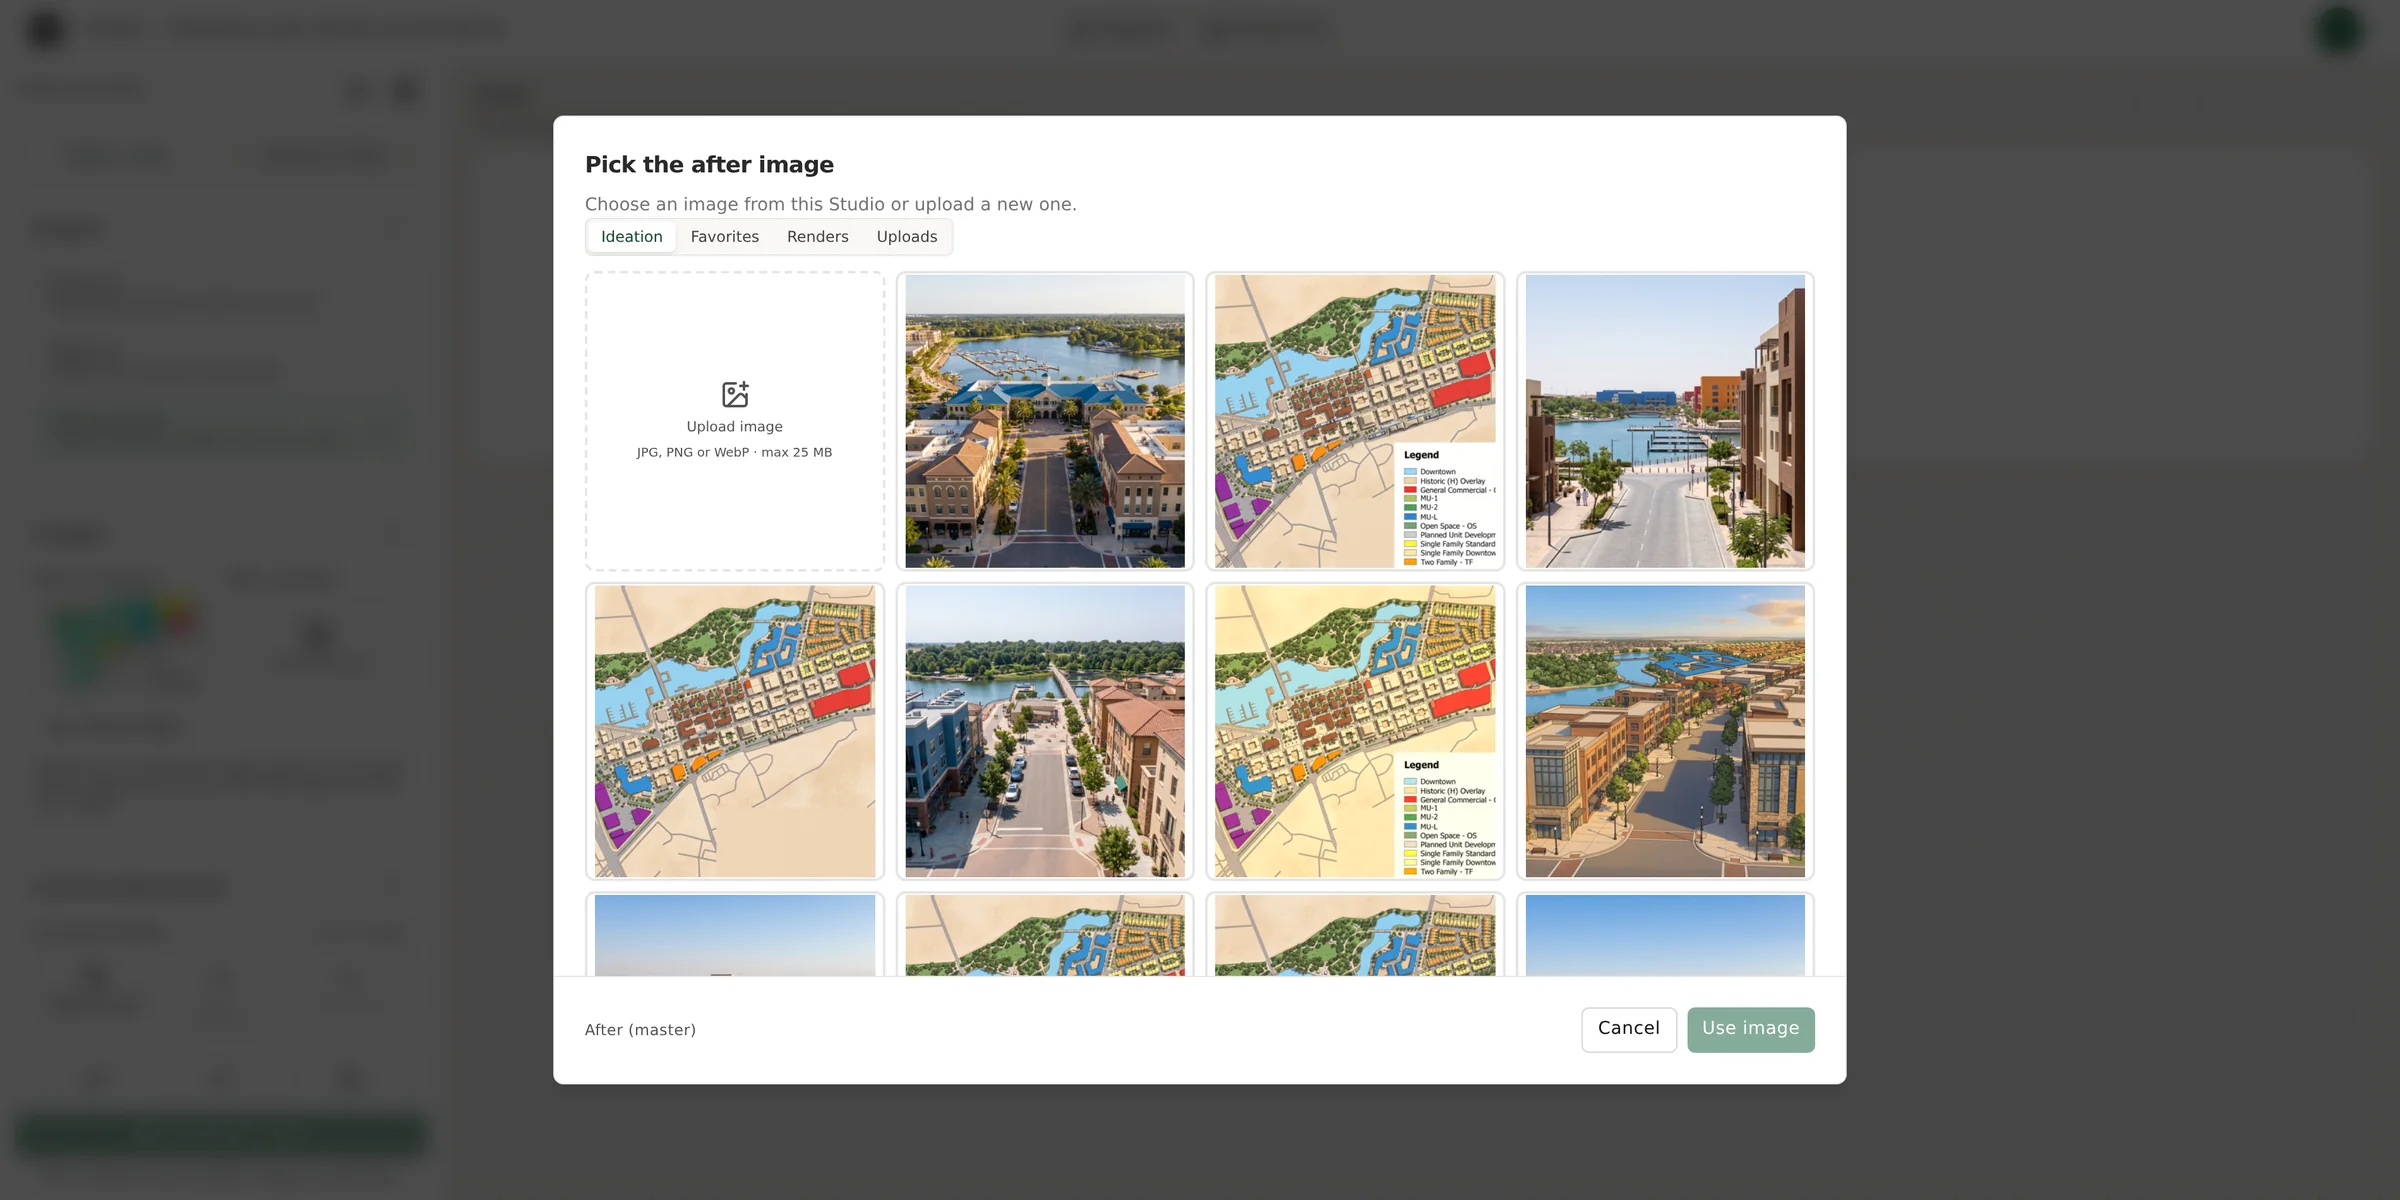
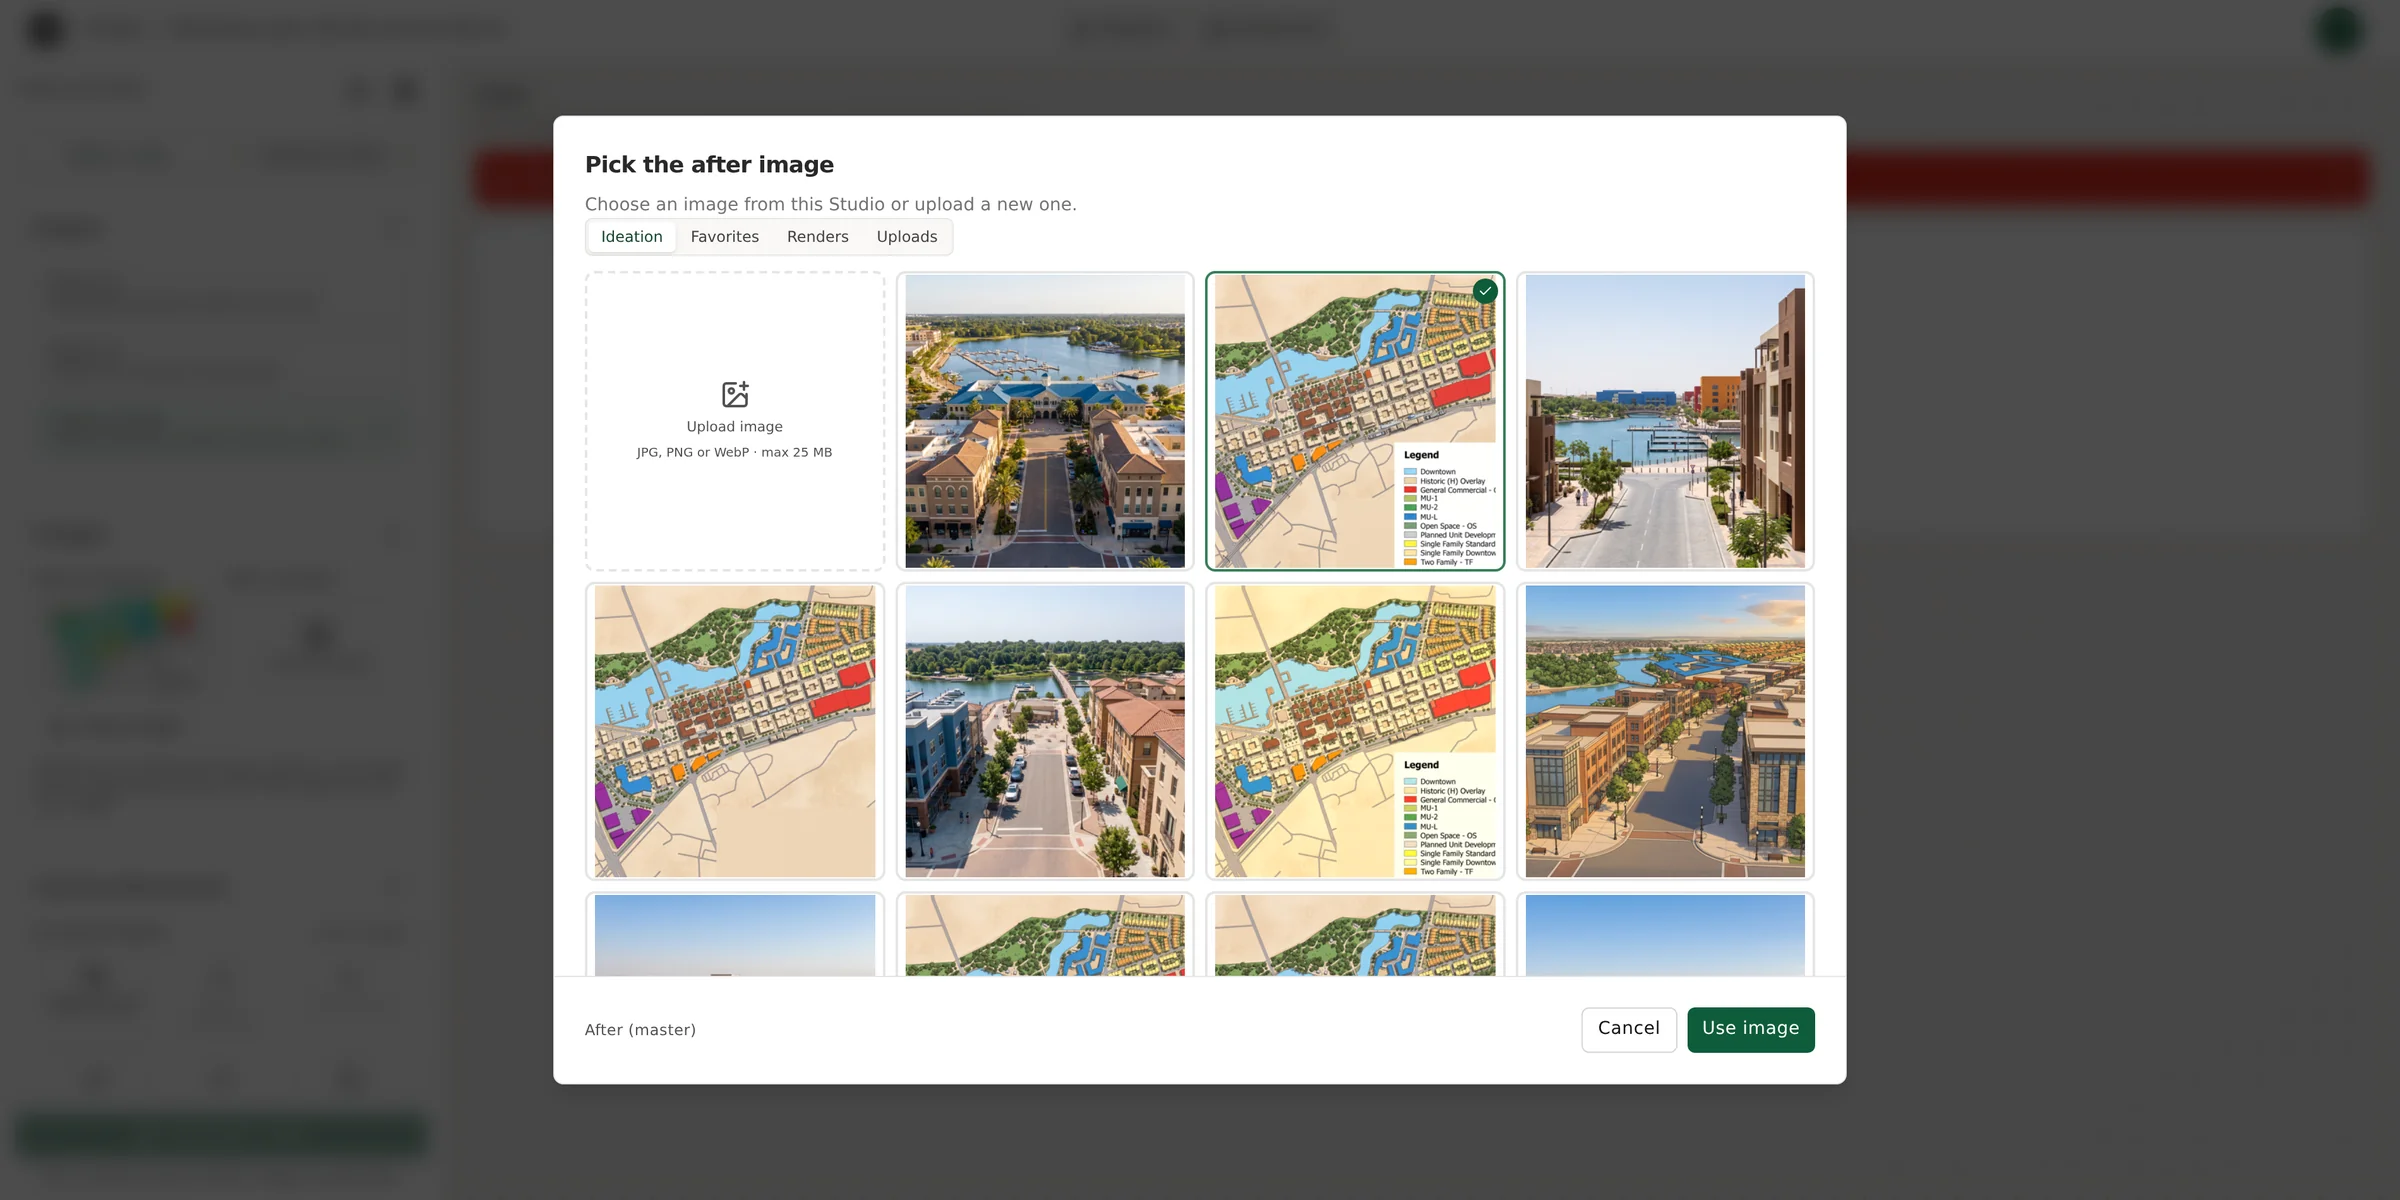
Add chapter 7 capture flow for video and upscale
tools/flows/07-media.js opens the project's Video and Upscale tools from
Production, picks images through the slow image picker (retrying when an
early click is lost) and takes the chapter 7 plates. The engine is a
parameter: the Classic engine failed in the headless capture browser, so
the video plates use Kling 2.6.

Claude-Session: https://claude.ai/code/session_01WxyYiivCKdbtkZeLp71bqj

diff --git a/tools/flows/07-media.js b/tools/flows/07-media.js
@@ -66,7 +66,8 @@ const stages = {
   async video(page) {
     await fromProduction(page, 'Video');
     await raw(page, '7-01-open');
-    console.log('step: engine'); await page.getByRole('button', { name: /^Classic \(no AI\)/ }).filter({ visible: true }).first().click();
+    const engine = process.env.ENGINE || 'Classic (no AI)';            // Classic failed in this headless browser; ENGINE='Kling 2.6' runs on the server
+    console.log('step: engine', engine); await page.getByRole('button', { name: new RegExp('^' + engine.replace(/[()]/g, '\\$&')) }).filter({ visible: true }).first().click();
     await page.waitForTimeout(800);
     console.log('step: after slot'); await openSlot(page, 'After (master)');
     const useAfter = await pickImage(page, 'Ideation', 1);
@@ -103,7 +104,7 @@ const stages = {
     });
     console.log('step: generate');
     await page.getByRole('button', { name: /^Generate video/ }).click();
-    await waitDone(page, 'video', /\d+:\d\d|Download|Delete video|\.mp4/i);
+    await waitDone(page, 'video', /\d+:\d\d|Download|Delete video|\.mp4|Couldn.t generate/i);     // also ends on the failure message
     await page.waitForTimeout(4000);
     await raw(page, '7-03-raw');
     await plate(page, '7-03-video-result', { highlights: { video: { locator: await stage(page), label: 'Your video' } } });
